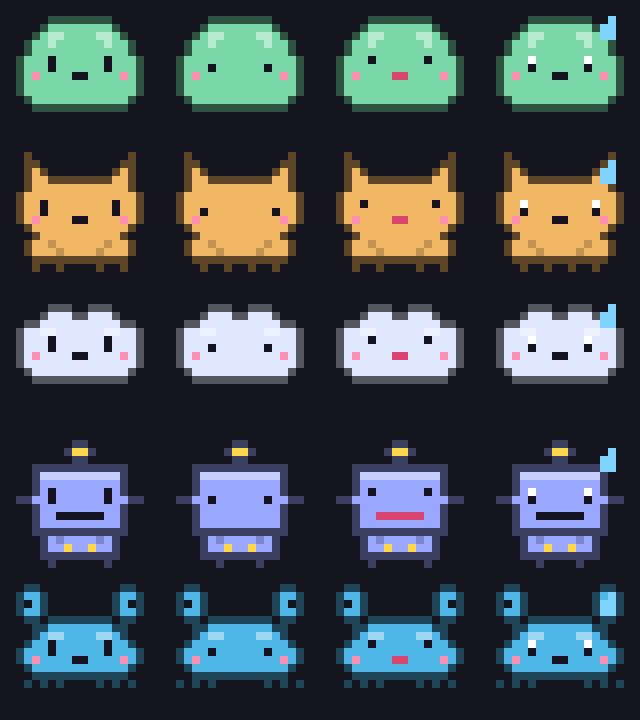
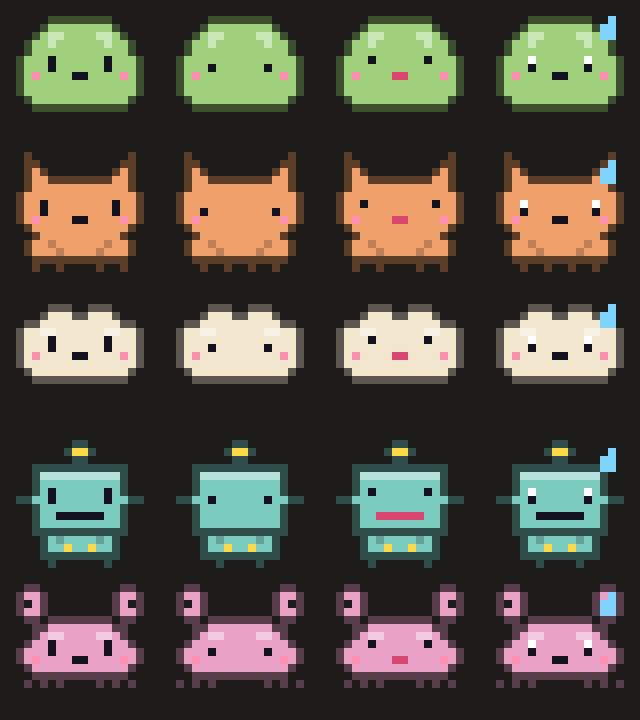
Warm "Ember" theme: brownish darks, cream text, coral accent, matching pet colours

diff --git a/renderer/style.css b/renderer/style.css
@@ -1,18 +1,20 @@
 :root {
-  --bg: #15151f;
-  --bg2: #1b1b28;
-  --bg3: #232334;
-  --bg4: #2c2c41;
-  --line: #30304a;
-  --fg: #e3e1f2;
-  --muted: #8c89a8;
-  --accent: #8b7bff;
-  --accent2: #6be0b4;
-  --warn: #ffcf5c;
-  --err: #ff6b81;
-  --add: #6be0b4;
-  --mod: #ffcf5c;
-  --del: #ff6b81;
+  /* "Ember" theme: warm, brownish darks, cream text, friendly warm accents */
+  --bg: #1d1b19;
+  --bg2: #242220;
+  --bg3: #2d2a27;
+  --bg4: #36322e;
+  --line: #3a3530;
+  --fg: #efe7da;
+  --muted: #a1978a;
+  --accent: #e0825f;
+  --accent2: #9fcf7a;
+  --warn: #f0c35b;
+  --err: #ef7a74;
+  --add: #9fcf7a;
+  --mod: #f0c35b;
+  --del: #ef7a74;
+  --sel: #4a3529;
   --side-w: 270px;
   --panel-h: 240px;
 }
@@ -21,7 +23,7 @@ html, body { margin: 0; height: 100%; background: var(--bg); color: var(--fg); o
   font: 13px/1.4 -apple-system, BlinkMacSystemFont, "SF Pro Text", system-ui, sans-serif; user-select: none; }
 button { font: inherit; color: var(--fg); background: var(--bg4); border: 1px solid var(--line); border-radius: 7px;
   padding: 5px 11px; cursor: pointer; }
-button:hover { background: #36364f; }
+button:hover { background: #423c36; }
 button.primary { background: var(--accent); border-color: transparent; color: #fff; font-weight: 600; }
 button.primary:hover { filter: brightness(1.1); }
 button:disabled { opacity: .5; cursor: default; }
@@ -84,9 +86,9 @@ input:focus, textarea:focus, select:focus { border-color: var(--accent); }
 
 /* tree */
 #tree { padding-bottom: 20px; }
-.node { display: flex; align-items: center; height: 23px; padding-right: 8px; cursor: pointer; white-space: nowrap; color: #cfcde2; }
+.node { display: flex; align-items: center; height: 23px; padding-right: 8px; cursor: pointer; white-space: nowrap; color: #ddd3c4; }
 .node:hover { background: var(--bg3); }
-.node.selected { background: #34305a; color: #fff; }
+.node.selected { background: var(--sel); color: #fff6ea; }
 .node .tw { width: 16px; text-align: center; color: var(--muted); font-size: 10px; flex: none; }
 .node .ic { width: 18px; flex: none; text-align: center; font-size: 12px; }
 .node .nm { overflow: hidden; text-overflow: ellipsis; }
@@ -112,7 +114,7 @@ input:focus, textarea:focus, select:focus { border-color: var(--accent); }
 
 /* welcome */
 #welcome { position: absolute; inset: 0; display: grid; place-items: center; background: var(--bg);
-  background-image: radial-gradient(circle at 50% 35%, #232046 0, transparent 55%); }
+  background-image: radial-gradient(circle at 50% 35%, #2b241f 0, transparent 55%); }
 .welcome-inner { text-align: center; max-width: 520px; }
 #welcome-pet { width: 128px; height: 104px; image-rendering: pixelated; }
 #welcome h1 { font-size: 40px; margin: 8px 0 2px; letter-spacing: 1px; }
@@ -125,10 +127,10 @@ input:focus, textarea:focus, select:focus { border-color: var(--accent); }
 /* lists (search, git, github) */
 .res-file { padding: 3px 12px; font-weight: 600; cursor: pointer; display: flex; gap: 6px; align-items: center; }
 .res-file .cnt { margin-left: auto; background: var(--bg4); border-radius: 8px; padding: 0 6px; font-size: 10px; color: var(--muted); }
-.res-hit { padding: 2px 12px 2px 28px; cursor: pointer; white-space: nowrap; overflow: hidden; text-overflow: ellipsis; color: #bdbad3;
+.res-hit { padding: 2px 12px 2px 28px; cursor: pointer; white-space: nowrap; overflow: hidden; text-overflow: ellipsis; color: #cfc5b6;
   font-family: ui-monospace, Menlo, monospace; font-size: 12px; }
 .res-hit:hover, .res-file:hover, .chg:hover, .repo:hover { background: var(--bg3); }
-.res-hit mark { background: #6b5cff66; color: #fff; border-radius: 2px; }
+.res-hit mark { background: #e0825f55; color: #fff6ea; border-radius: 2px; }
 .res-hit .ln { color: var(--muted); margin-right: 6px; }
 .section-title { padding: 10px 14px 4px; font-size: 11px; font-weight: 700; letter-spacing: .6px; color: var(--muted); text-transform: uppercase; }
 .chg { display: flex; align-items: center; gap: 8px; padding: 3px 14px; cursor: pointer; }
@@ -144,7 +146,7 @@ input:focus, textarea:focus, select:focus { border-color: var(--accent); }
 .card code { background: var(--bg); padding: 1px 5px; border-radius: 4px; font-size: 12px; user-select: text; }
 .me { display: flex; gap: 10px; align-items: center; margin: 10px 12px; }
 .me img { width: 42px; height: 42px; border-radius: 50%; border: 2px solid var(--accent); }
-.repo { padding: 7px 14px; border-bottom: 1px solid #26263a; display: flex; flex-direction: column; gap: 2px; }
+.repo { padding: 7px 14px; border-bottom: 1px solid #2e2a26; display: flex; flex-direction: column; gap: 2px; }
 .repo .top { display: flex; align-items: center; gap: 6px; }
 .repo .nm { font-weight: 600; overflow: hidden; text-overflow: ellipsis; white-space: nowrap; }
 .repo .lock { font-size: 10px; color: var(--muted); border: 1px solid var(--line); border-radius: 8px; padding: 0 5px; }
@@ -153,11 +155,11 @@ input:focus, textarea:focus, select:focus { border-color: var(--accent); }
 
 /* pet settings */
 .pet-preview { display: grid; place-items: center; background: var(--bg); border: 1px solid var(--line); border-radius: 10px; height: 120px; margin-bottom: 10px;
-  background-image: linear-gradient(transparent 85%, #2a2a40 85%); }
+  background-image: linear-gradient(transparent 85%, #2f2a25 85%); }
 .pet-preview canvas { image-rendering: pixelated; }
 .pet-kinds { display: grid; grid-template-columns: repeat(5, 1fr); gap: 6px; margin-bottom: 10px; }
 .pet-kinds button { padding: 4px; display: flex; flex-direction: column; align-items: center; gap: 2px; font-size: 10.5px; }
-.pet-kinds button.sel { border-color: var(--accent); background: #2f2a5c; }
+.pet-kinds button.sel { border-color: var(--accent); background: var(--sel); }
 .pet-kinds canvas { width: 32px; height: 30px; image-rendering: pixelated; object-fit: contain; }
 .field { margin: 10px 0; }
 .field > label { display: block; font-size: 11px; color: var(--muted); font-weight: 700; letter-spacing: .4px; margin-bottom: 4px; text-transform: uppercase; }
@@ -171,12 +173,13 @@ input[type=range] { width: 100%; accent-color: var(--accent); }
 .meter > div { height: 100%; background: linear-gradient(90deg, var(--accent), var(--accent2)); width: 0; transition: width .5s; }
 
 /* status bar */
-#statusbar { position: absolute; bottom: 0; left: 0; right: 0; height: 24px; background: #5b4bd6; color: #fff; display: flex;
+#statusbar { position: absolute; bottom: 0; left: 0; right: 0; height: 24px; background: var(--bg2); color: var(--muted); border-top: 1px solid var(--line); display: flex;
   align-items: center; font-size: 12px; padding: 0 6px; }
 .sb-item { padding: 0 8px; white-space: nowrap; }
 .sb-grow { flex: 1; }
-.sb-btn { background: transparent; border: none; border-radius: 0; color: #fff; padding: 0 8px; height: 24px; }
-.sb-btn:hover { background: #ffffff22; }
+.sb-btn { background: transparent; border: none; border-radius: 0; color: var(--muted); padding: 0 8px; height: 23px; }
+.sb-btn:hover { background: var(--bg3); color: var(--fg); }
+#sb-branch { color: var(--accent); }
 
 /* pets */
 #pet-layer { position: fixed; inset: 38px 0 24px 48px; pointer-events: none; z-index: 40; overflow: hidden; }
@@ -192,7 +195,7 @@ input[type=range] { width: 100%; accent-color: var(--accent); }
 .qo-list { max-height: 50vh; overflow: auto; margin-top: 8px; }
 .qo-item { padding: 5px 8px; border-radius: 6px; cursor: pointer; display: flex; gap: 8px; }
 .qo-item .dir { color: var(--muted); font-size: 11.5px; }
-.qo-item.sel { background: #34305a; }
+.qo-item.sel { background: var(--sel); }
 .modal.palette { padding: 10px; }
 #toasts { position: fixed; right: 14px; bottom: 36px; display: flex; flex-direction: column; gap: 8px; z-index: 120; }
 .toast { background: var(--bg3); border: 1px solid var(--line); border-left: 4px solid var(--accent); padding: 9px 14px; border-radius: 8px;
@@ -203,6 +206,7 @@ input[type=range] { width: 100%; accent-color: var(--accent); }
 .spin { display: inline-block; animation: spin 1s linear infinite; }
 @keyframes spin { to { transform: rotate(360deg); } }
 ::-webkit-scrollbar { width: 10px; height: 10px; }
-::-webkit-scrollbar-thumb { background: #3a3a55; border-radius: 6px; border: 2px solid transparent; background-clip: padding-box; }
+::-webkit-scrollbar-thumb { background: #4a433c; border-radius: 6px; border: 2px solid transparent; background-clip: padding-box; }
 a { color: var(--accent2); }
 .git-actions button { white-space: nowrap; }
+input[type=checkbox] { accent-color: var(--accent); }

diff --git a/renderer/app.js b/renderer/app.js
@@ -79,18 +79,30 @@ function defineTheme() {
   monaco.editor.defineTheme('scuttle-night', {
     base: 'vs-dark', inherit: true,
     rules: [
-      { token: 'comment', foreground: '6f6c8f', fontStyle: 'italic' },
-      { token: 'keyword', foreground: 'b49cff' },
-      { token: 'string', foreground: '8ee6b8' },
-      { token: 'number', foreground: 'ffb86b' },
-      { token: 'type', foreground: '7fd3ff' },
-      { token: 'delimiter', foreground: 'a7a4c4' },
+      { token: 'comment', foreground: '8c8173', fontStyle: 'italic' },
+      { token: 'keyword', foreground: 'ee9466' },
+      { token: 'string', foreground: 'a9d27f' },
+      { token: 'string.escape', foreground: 'f0c35b' },
+      { token: 'number', foreground: 'f0c35b' },
+      { token: 'regexp', foreground: 'e8a0c4' },
+      { token: 'type', foreground: '7ccbbf' },
+      { token: 'type.identifier', foreground: '7ccbbf' },
+      { token: 'tag', foreground: 'ee9466' },
+      { token: 'attribute.name', foreground: 'f0c35b' },
+      { token: 'attribute.value', foreground: 'a9d27f' },
+      { token: 'variable.predefined', foreground: 'e8a0c4' },
+      { token: 'delimiter', foreground: 'b8ad9e' },
+      { token: 'identifier', foreground: 'efe7da' },
     ],
     colors: {
-      'editor.background': '#15151f', 'editor.foreground': '#e3e1f2', 'editorLineNumber.foreground': '#4b4868',
-      'editorLineNumber.activeForeground': '#b9b6d6', 'editor.lineHighlightBackground': '#1f1f2e', 'editor.selectionBackground': '#4a3fa055',
-      'editorCursor.foreground': '#8b7bff', 'editorIndentGuide.background1': '#26263a', 'editorWidget.background': '#1b1b28',
-      'minimap.background': '#17171f', 'scrollbarSlider.background': '#3a3a5566',
+      'editor.background': '#1d1b19', 'editor.foreground': '#efe7da', 'editorLineNumber.foreground': '#5a524a',
+      'editorLineNumber.activeForeground': '#d8cdbd', 'editor.lineHighlightBackground': '#25221f', 'editor.lineHighlightBorder': '#00000000',
+      'editor.selectionBackground': '#e0825f40', 'editor.inactiveSelectionBackground': '#e0825f22', 'editor.wordHighlightBackground': '#f0c35b22',
+      'editorCursor.foreground': '#f0a37f', 'editorIndentGuide.background1': '#2f2b27', 'editorIndentGuide.activeBackground1': '#4a433c',
+      'editorWidget.background': '#242220', 'editorWidget.border': '#3a3530', 'editorSuggestWidget.selectedBackground': '#4a3529',
+      'editorBracketHighlight.foreground1': '#f0c35b', 'editorBracketHighlight.foreground2': '#e8a0c4', 'editorBracketHighlight.foreground3': '#7ccbbf',
+      'minimap.background': '#1f1d1b', 'scrollbarSlider.background': '#4a433c66', 'scrollbarSlider.hoverBackground': '#5a524a88',
+      'editorGutter.background': '#1d1b19', 'focusBorder': '#e0825f88',
     },
   });
 }
@@ -411,9 +423,9 @@ let fit;
 function setupTerminal() {
   state.term = new Terminal({
     fontFamily: 'ui-monospace, "SF Mono", Menlo, monospace', fontSize: 13, cursorBlink: true, allowProposedApi: true,
-    theme: { background: '#15151f', foreground: '#e3e1f2', cursor: '#8b7bff', selectionBackground: '#4a3fa088',
-      black: '#1d1b2c', red: '#ff6b81', green: '#6be0b4', yellow: '#ffcf5c', blue: '#7fa8ff', magenta: '#c49cff', cyan: '#7fd3ff', white: '#e3e1f2',
-      brightBlack: '#5c5a78' },
+    theme: { background: '#1d1b19', foreground: '#efe7da', cursor: '#f0a37f', selectionBackground: '#e0825f55',
+      black: '#2d2a27', red: '#ef7a74', green: '#a9d27f', yellow: '#f0c35b', blue: '#82b3e0', magenta: '#e8a0c4', cyan: '#7ccbbf', white: '#efe7da',
+      brightBlack: '#6e655b' },
   });
   fit = new FitAddon.FitAddon();
   state.term.loadAddon(fit);
@@ -705,7 +717,7 @@ async function savePet(patch, live = true) {
   if (popped) S.pet.event({ type: 'opts', opts: petOpts() });
   drawWelcomePet(); updatePetStatus();
 }
-const SWATCHES = ['#7ad7a8', '#f2b866', '#dfe8ff', '#9aa7ff', '#4fb7e8', '#ff8fb1', '#ff7a6b', '#c49cff', '#ffe066', '#8a8a8a', '#3b3b4f'];
+const SWATCHES = ['#9fcf7a', '#f0a06a', '#f3e6cf', '#7ccbbf', '#e8a0c4', '#f0c35b', '#e0825f', '#c9a6e8', '#82b3e0', '#b39b84', '#5e544a'];
 function renderPetPanel() {
   const body = $('#pet-body'); body.innerHTML = '';
   const s = state.settings.pet;

diff --git a/renderer/pets.js b/renderer/pets.js
@@ -6,14 +6,14 @@
 (function () {
   const PETS = {
     blob: {
-      label: 'Blob', defaultName: 'Gloop', defaultColor: '#7ad7a8', bob: true,
+      label: 'Blob', defaultName: 'Gloop', defaultColor: '#9fcf7a', bob: true,
       rows: [
         '........', '....oooo', '...obbbb', '..obllbb', '.obblbbb', '.obbbbbb', 'obbbebbb',
         'obbbebbb', 'obpbbbbm', 'obbbbbbb', 'obbbbbbb', '.obbbbbb', '..oooooo',
       ],
     },
     cat: {
-      label: 'Cat', defaultName: 'Biscuit', defaultColor: '#f2b866',
+      label: 'Cat', defaultName: 'Biscuit', defaultColor: '#f0a06a',
       rows: [
         '.o......', '.oo.....', '.obo....', '.obboooo', '.obbbbbb', 'obbbbbbb', 'obbebbbb',
         'obbebbbb', 'obpbbbbm', '.obbbbbb', '..obbbbb', '.obbdbbb', '.obbbdbb', '..oooooo',
@@ -21,14 +21,14 @@
       legs: ['..o..o..', '...o..o.'],
     },
     cloud: {
-      label: 'Cloud', defaultName: 'Puff', defaultColor: '#dfe8ff', bob: true,
+      label: 'Cloud', defaultName: 'Puff', defaultColor: '#f3e6cf', bob: true,
       rows: [
         '........', '....ooo.', '...obbbo', '.oobbbbb', 'obbllbbb', 'obbbebbb', 'obbbebbb',
         'obpbbbbm', 'obbbbbbb', '.obbbbbb', '..oooooo',
       ],
     },
     robot: {
-      label: 'Robot', defaultName: 'Bolt', defaultColor: '#9aa7ff',
+      label: 'Robot', defaultName: 'Bolt', defaultColor: '#7ccbbf',
       rows: [
         '.......o', '......oy', '.......o', '..oooooo', '..olllll', '..obbbbb', '..obebbb',
         'oobbebbb', '..obbbbb', '..obbmmm', '..obbbbb', '..oooooo', '...obdbb', '...obbyb', '...ooooo',
@@ -36,7 +36,7 @@
       legs: ['....o...', '.....o..'],
     },
     crab: {
-      label: 'Crab', defaultName: 'Pinch', defaultColor: '#4fb7e8',
+      label: 'Crab', defaultName: 'Pinch', defaultColor: '#e8a0c4',
       rows: [
         '.oo.....', 'obbo....', 'o.bo....', 'obbo....', '.oo.oooo', '..oobbbb', '..obllbb',
         '.obbebbb', 'obbbebbb', 'obpbbbbm', '.obbbbbb', '..oooooo',
@@ -109,7 +109,7 @@
   class Pet {
     constructor(host, opts) {
       this.host = host;
-      this.opts = Object.assign({ kind: 'blob', color: '#7ad7a8', name: 'Gloop', size: 4, climb: true }, opts || {});
+      this.opts = Object.assign({ kind: 'blob', color: '#9fcf7a', name: 'Gloop', size: 4, climb: true }, opts || {});
       this.el = document.createElement('div');
       this.el.className = 'scuttle-pet';
       this.el.style.cssText = 'position:absolute;left:0;top:0;pointer-events:auto;cursor:pointer;will-change:transform;z-index:50;';
@@ -119,7 +119,7 @@
       this.bubble = document.createElement('div');
       this.bubble.className = 'scuttle-pet-bubble';
       this.bubble.style.cssText = 'position:absolute;left:0;top:0;pointer-events:none;z-index:51;opacity:0;transition:opacity .25s;' +
-        'font:600 12px/1.2 -apple-system,system-ui,sans-serif;color:#1d1b2c;background:#fff;border:2px solid #1d1b2c;' +
+        'font:600 12px/1.2 -apple-system,system-ui,sans-serif;color:#2a241f;background:#fbf4e8;border:2px solid #2a241f;' +
         'border-radius:9px;padding:3px 7px;white-space:nowrap;box-shadow:2px 2px 0 rgba(0,0,0,.25);';
       this.ctx = this.canvas.getContext('2d');
       this.p = 20; this.dir = 1; this.mood = 'walk'; this.moodUntil = 0; this.frame = 0; this.frameT = 0;

diff --git a/src/store.js b/src/store.js
@@ -10,7 +10,7 @@ const DEFAULTS = {
   pet: {
     enabled: true,      // summon a pet when you code a lot
     kind: 'blob',       // blob | cat | cloud | robot | crab
-    color: '#7ad7a8',
+    color: '#9fcf7a',
     name: 'Gloop',
     size: 4,            // pixel size, 2..8
     summonMinutes: 2,   // minutes of steady typing before the pet shows up
@@ -25,7 +25,11 @@ function readJSON(p, fb) { try { return JSON.parse(fs.readFileSync(p, 'utf8')); 
 
 function getSettings() {
   const s = readJSON(file(), {});
-  return { ...DEFAULTS, ...s, pet: { ...DEFAULTS.pet, ...(s.pet || {}) } };
+  const pet = { ...DEFAULTS.pet, ...(s.pet || {}) };
+  // old cool-toned default colours -> the warm palette
+  const OLD = { '#7ad7a8': '#9fcf7a', '#f2b866': '#f0a06a', '#dfe8ff': '#f3e6cf', '#9aa7ff': '#7ccbbf', '#4fb7e8': '#e8a0c4' };
+  if (OLD[pet.color]) pet.color = OLD[pet.color];
+  return { ...DEFAULTS, ...s, pet };
 }
 function setSettings(patch) {
   const cur = getSettings();

diff --git a/src/main.js b/src/main.js
@@ -24,7 +24,7 @@ function createWindow() {
     height: 900,
     minWidth: 760,
     minHeight: 480,
-    backgroundColor: '#15151f',
+    backgroundColor: '#1d1b19',
     title: 'Scuttle',
     titleBarStyle: 'hiddenInset',
     trafficLightPosition: { x: 14, y: 12 },
